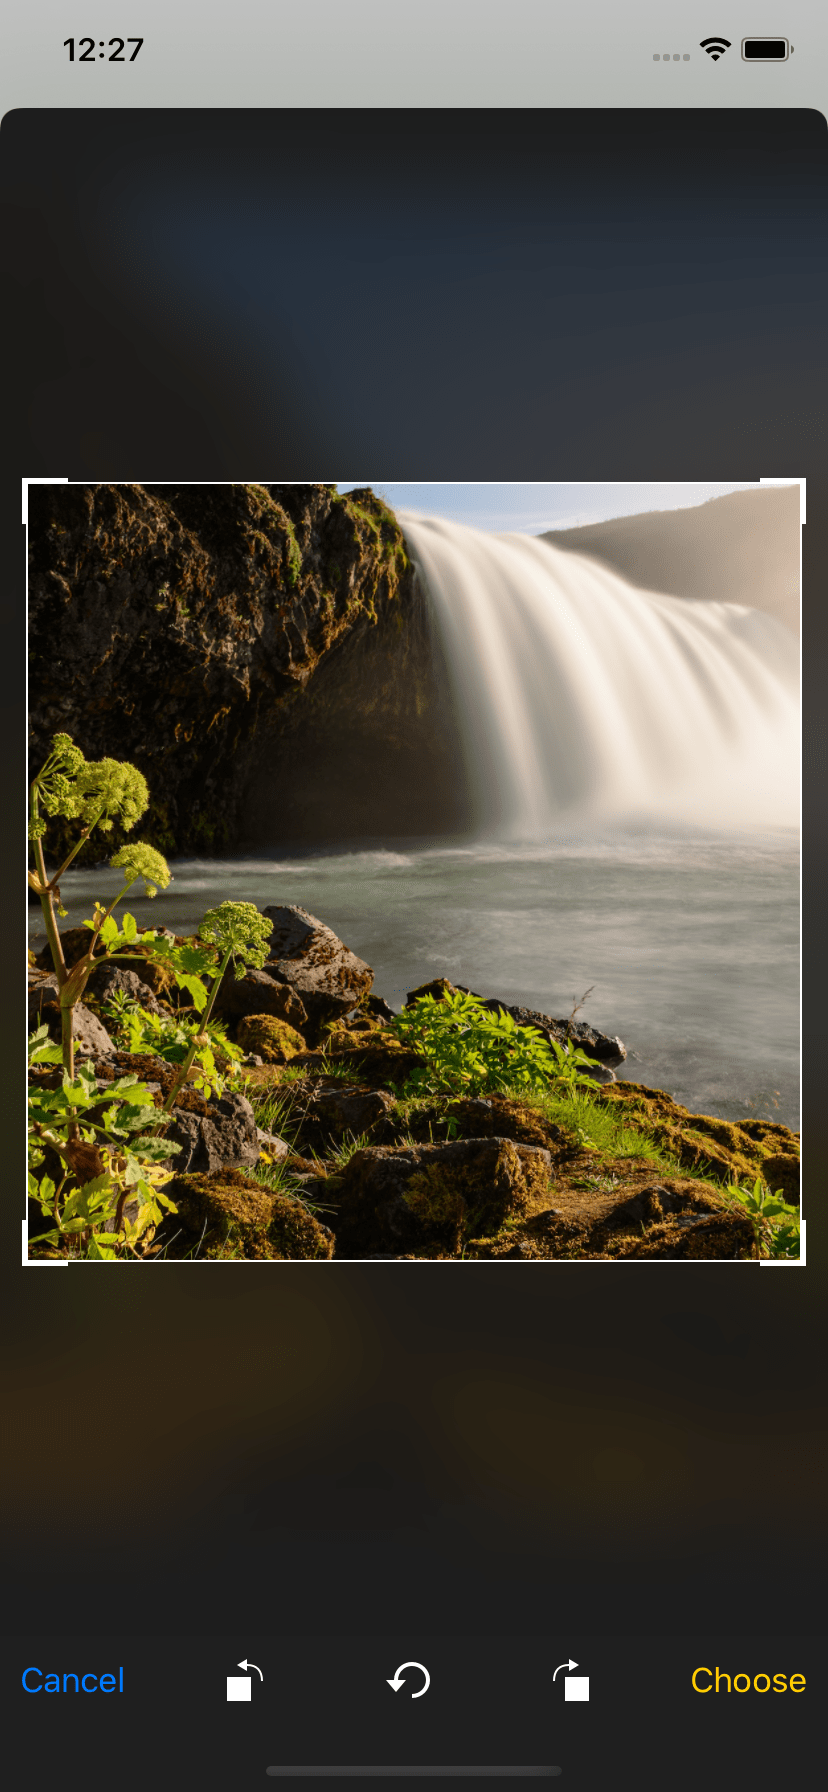
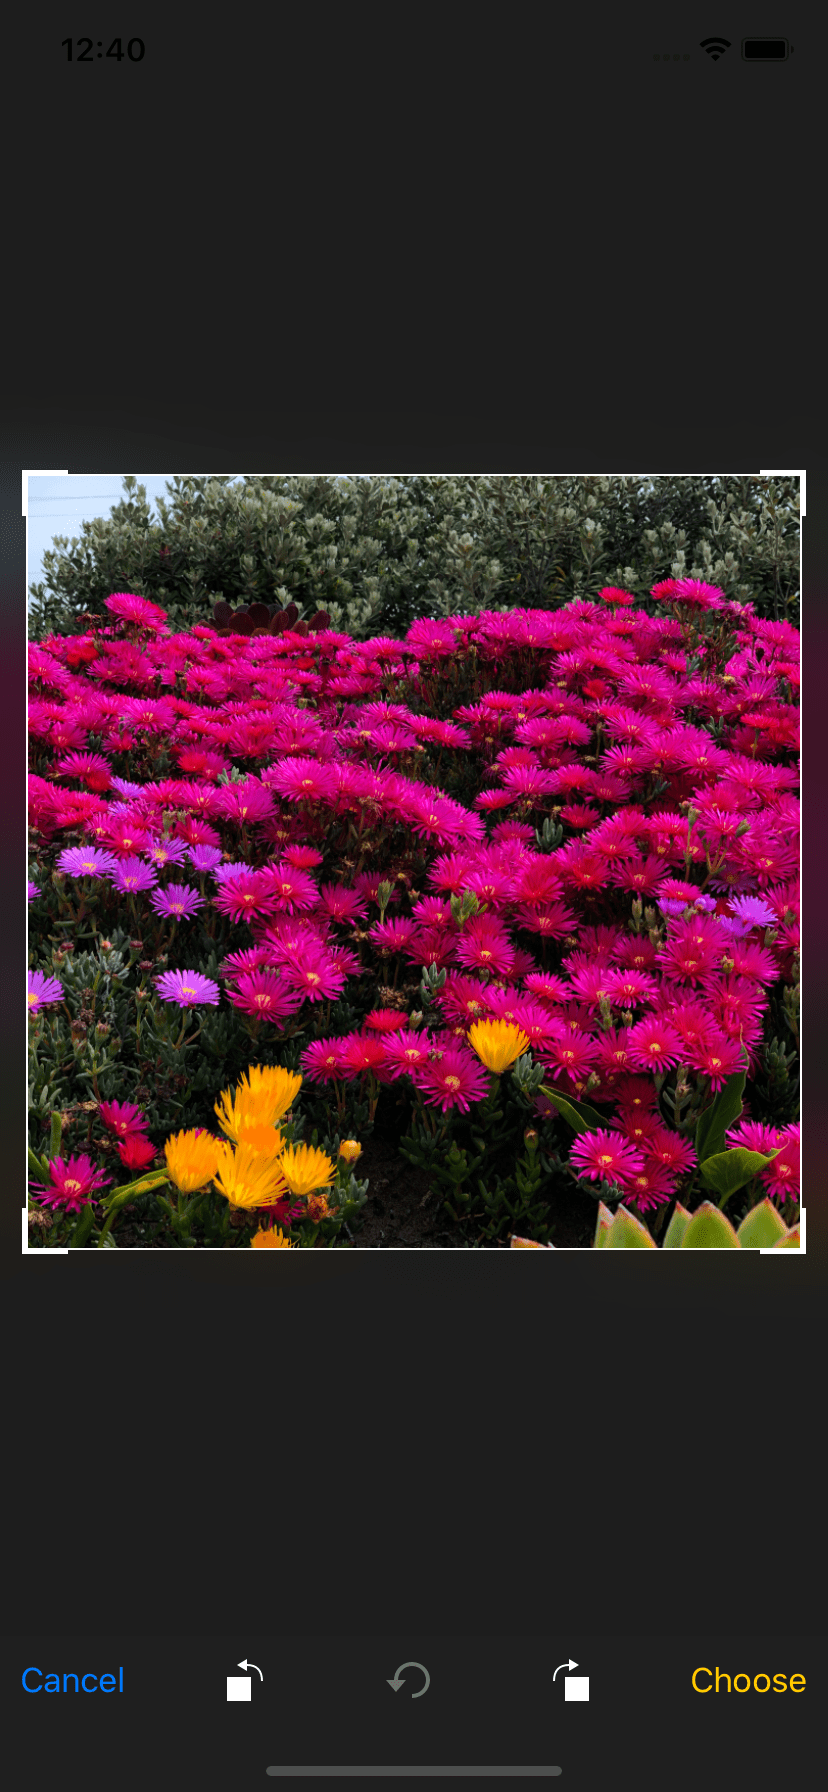
(ios) present cropped in full screen

diff --git a/ios/src/ImageCropPicker.m b/ios/src/ImageCropPicker.m
@@ -870,11 +870,10 @@ RCT_EXPORT_METHOD(openCropper:(NSDictionary *)options
     cropVC.title = [[self options] objectForKey:@"cropperToolbarTitle"];
     cropVC.delegate = self;
     
-    NSString *cropperChooseText = [self.options objectForKey:@"cropperChooseText"];
-    NSString *cropperCancelText = [self.options objectForKey:@"cropperCancelText"];
+    cropVC.doneButtonTitle = [self.options objectForKey:@"cropperChooseText"];
+    cropVC.cancelButtonTitle = [self.options objectForKey:@"cropperCancelText"];
     
-    cropVC.doneButtonTitle = cropperChooseText;
-    cropVC.cancelButtonTitle = cropperCancelText;
+    cropVC.modalPresentationStyle = UIModalPresentationFullScreen;
         
     dispatch_async(dispatch_get_main_queue(), ^{
         [[self getRootVC] presentViewController:cropVC animated:FALSE completion:nil];
